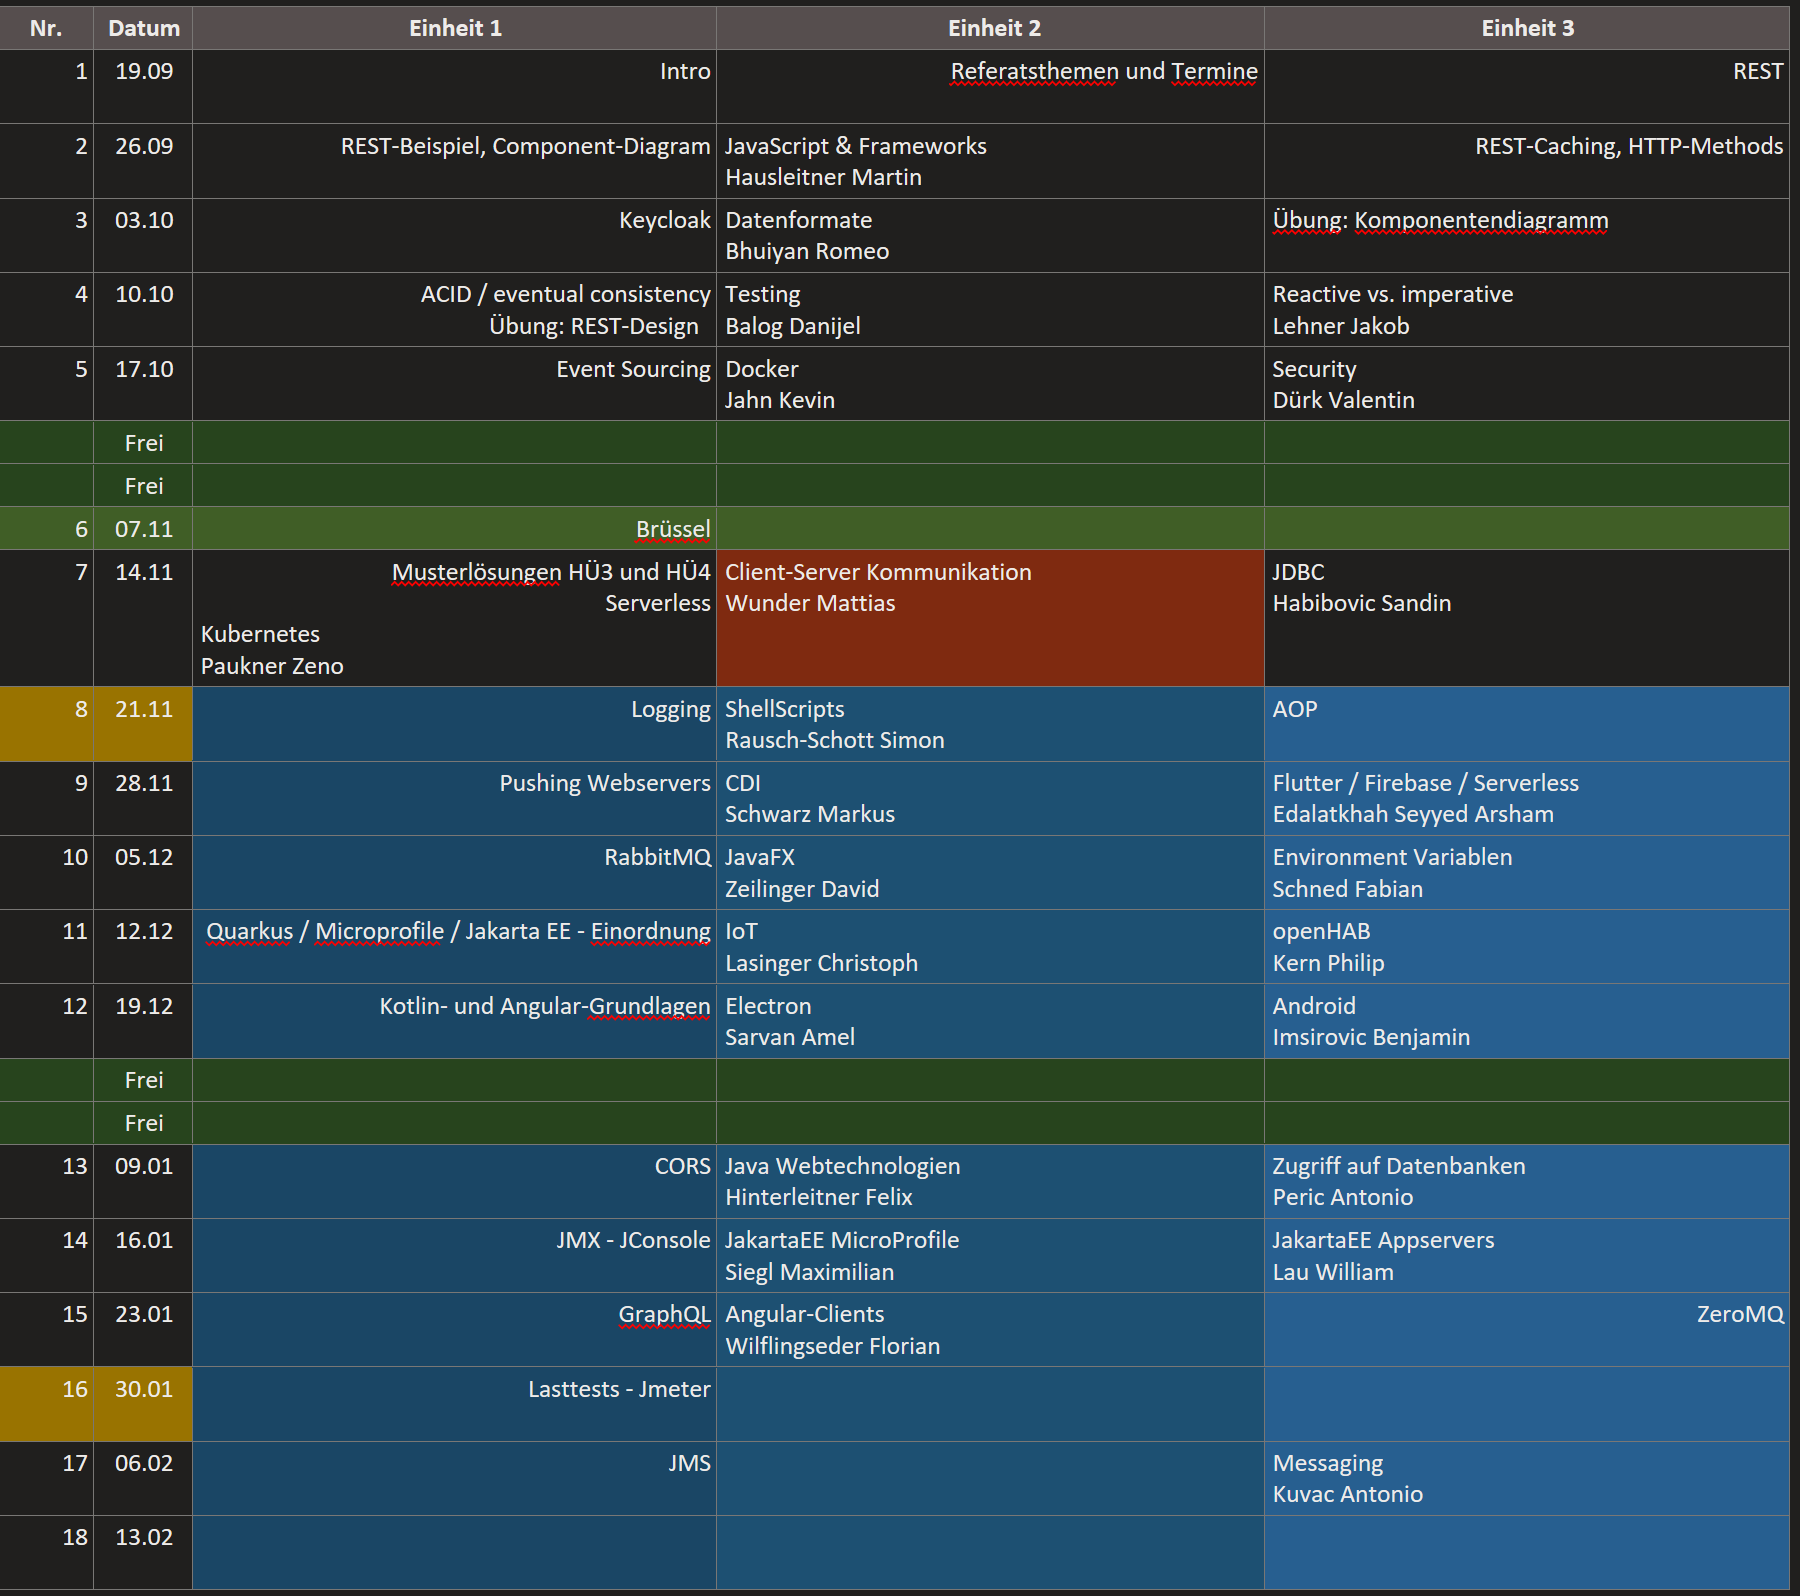
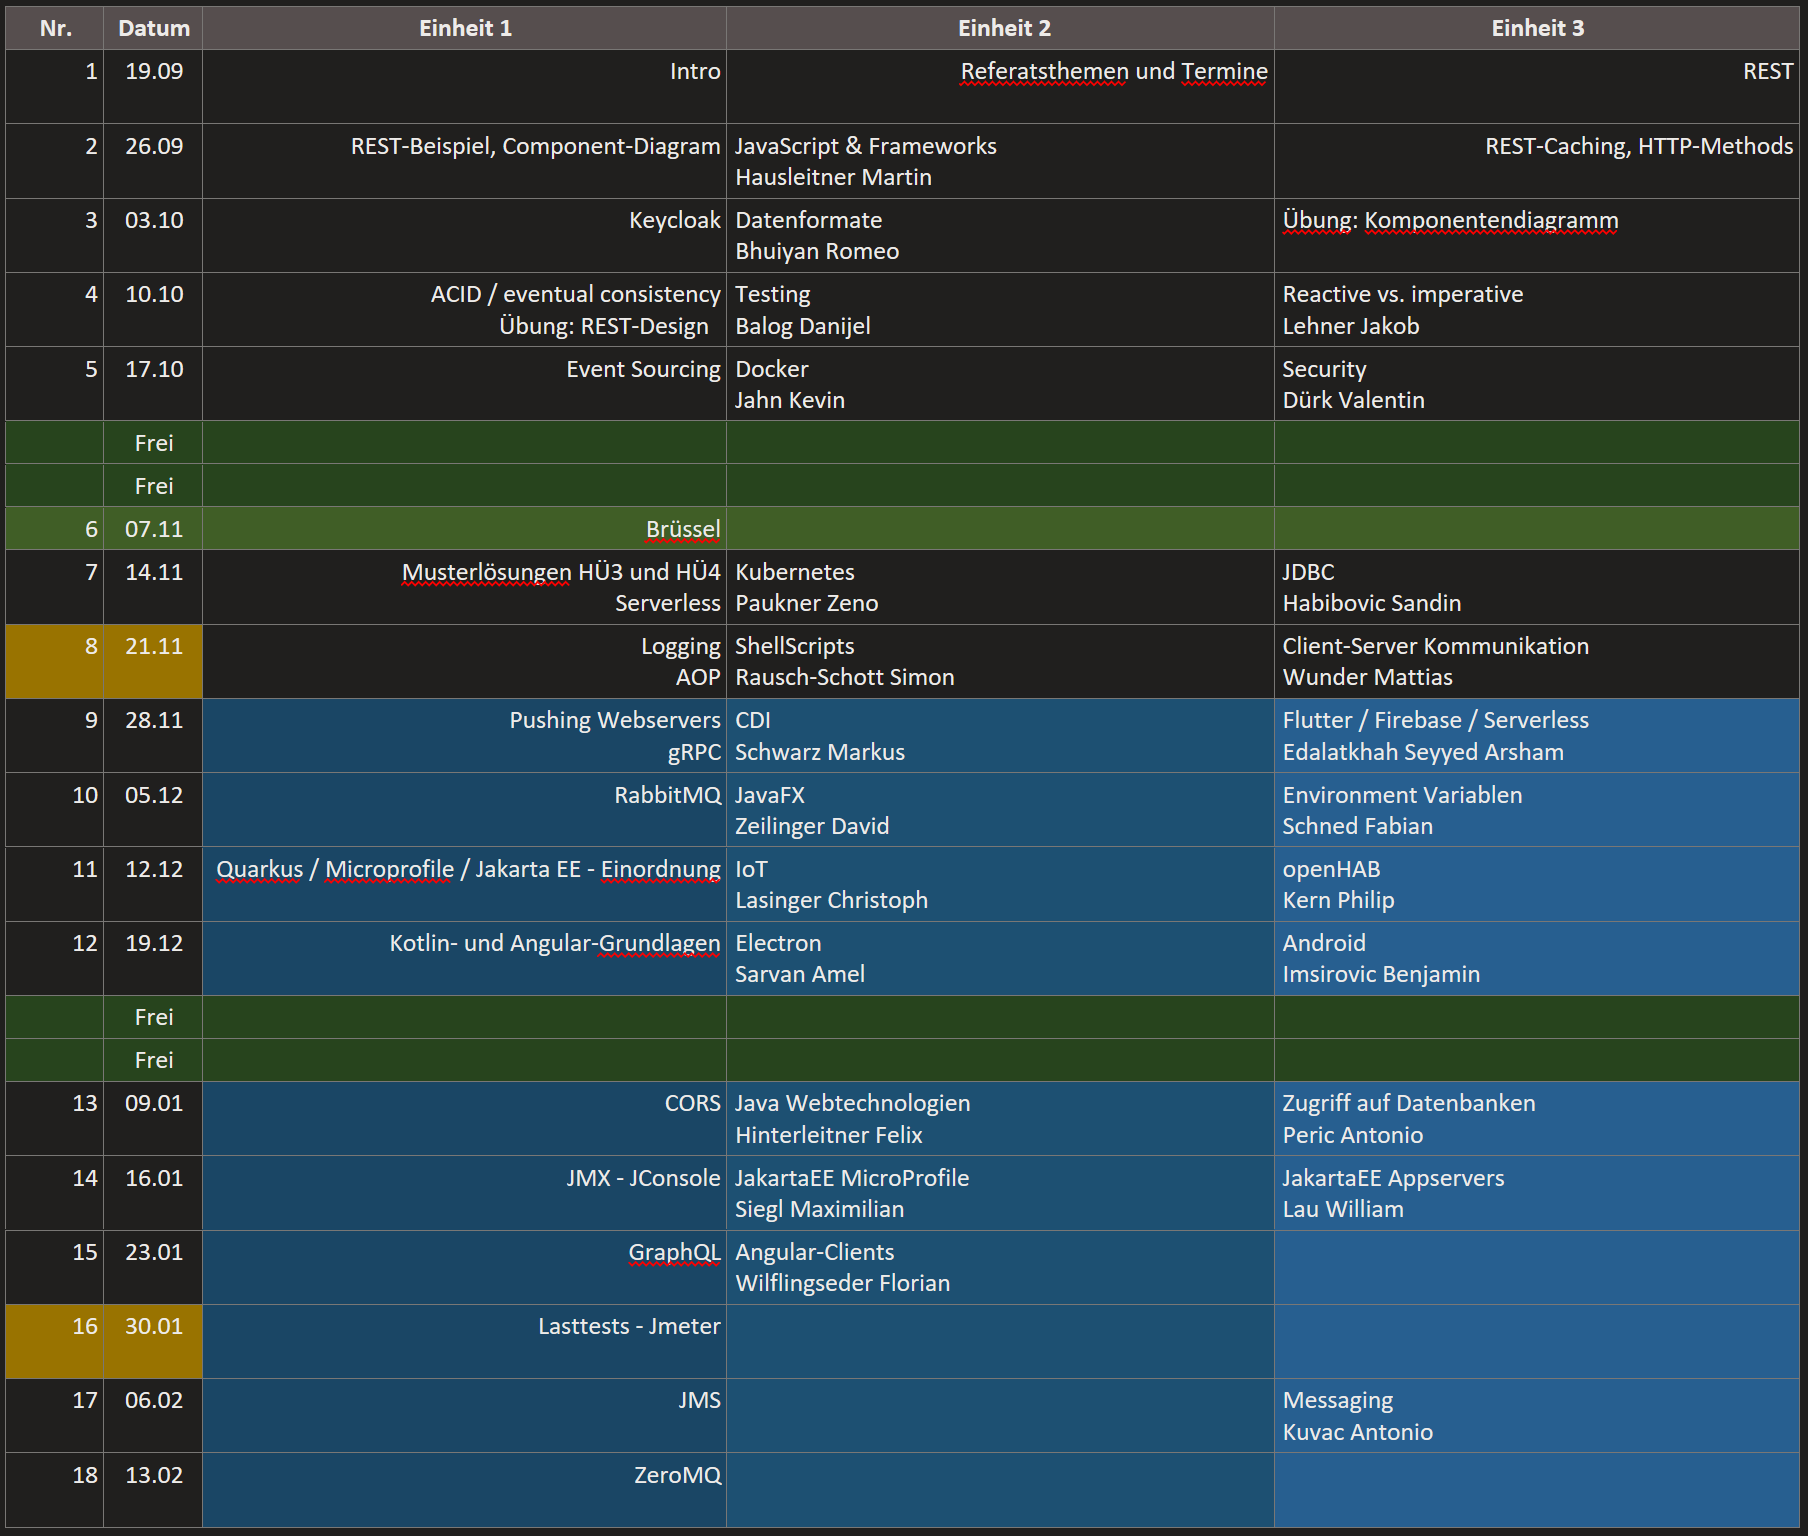
update

diff --git a/5CHIF-NVSV.md b/5CHIF-NVSV.md
@@ -18,26 +18,50 @@ https://classroom.github.com/a/QTfc9_Zk
 
 
 
-## 6. Einheit 2022-11-21
+## 7. Einheit 2022-11-28
 
-* [Aspect Oriented Programming](https://github.com/UnterrainerInformatik/htl/blob/master/presentations/aop.pdf)
-* [Logging](https://github.com/UnterrainerInformatik/htl/blob/master/presentations/logging.pdf)
+* [Pushing Webservers](https://github.com/UnterrainerInformatik/htl/blob/master/presentations/pushing-webservers.pdf)
+* gRPC Demo
+  https://github.com/UnterrainerInformatik/htl-grpc-client
 * Fragen
   * **ACID / BASE / Event Sourcing**
     * Erklären Sie das CAP-Theorem.
       * Wo würden Sie MariaDB platzieren?
       * Wo würden Sie ein GIT-Projekt platzieren?
+
     * Beschreiben Sie die ACID-Kriterien.
     * Was ist Eventual Consistency und warum ist sie so wichtig für verteilte Systeme?
     * Beschreiben Sie Event-Sourcing.
       * Was sind die Vorteile?
       * Was sind die Nachteile?
+
+  * **AOP**
+    Sie wurden von einer Firma beauftragt ein internes Caching innerhalb ihres Java-Stacks zu implementieren. Bestimmte Methoden, die lange laufen, sollen gechached werden und im Falle eines Cache-Hits soll das alte Ergebnis ausgeliefert werden.
+    Der Kunde verwendet Quarkus mit Panache als Backend.
+    * Nach welchen prinzipiellen Architekturschema würden Sie hier vorgehen?
+    * Welche beiden Möglichkeiten gibt es dieses Architekturschema zu verwenden?
+    * Nennen Sie Beispiele für Cross-Cutting-Concerns.
+    * Auf welche Art kann AOP in Quarkus angewandt werden und wie heißen die beiden Programmierkonstrukte die dabei benutzt werden können?
+      Zu welcher Library gehören diese beiden Teile?
+      Was ist der Unterschied zwischen ihnen?
   * **Serverless**
     Sie möchten in einem Betrieb beginnen, der eine Serverless-Architektur verwendet um ihr Produkt zu betreiben.
     * Was sind die wesentlichen Bestandteile einer Serverless-Architektur?
     * Was sind die wesentlichen Vorteile einer Serverless-Architektur?
     * Was ist ein Cold-Start-Delay und wie kann man es zum Beispiel verhindern?
     * Was ist ein Vendor-Lock-In und wie macht sich soetwas bemerkbar?
+
+
+### Hausübung
+
+Nichts
+
+
+
+## 6. Einheit 2022-11-21
+
+* [Aspect Oriented Programming](https://github.com/UnterrainerInformatik/htl/blob/master/presentations/aop.pdf)
+* [Logging](https://github.com/UnterrainerInformatik/htl/blob/master/presentations/logging.pdf)
 
 ### Hausübung
 

diff --git a/5BHIF-NVSV.md b/5BHIF-NVSV.md
@@ -18,9 +18,11 @@ https://classroom.github.com/a/0pIFwT2Q
 
 
 
-## 6. Einheit 2022-11-21
+## 7. Einheit 2022-11-28
 
-* [Logging](https://github.com/UnterrainerInformatik/htl/blob/master/presentations/logging.pdf)
+* [Pushing Webservers](https://github.com/UnterrainerInformatik/htl/blob/master/presentations/pushing-webservers.pdf)
+* gRPC Demo
+  https://github.com/UnterrainerInformatik/htl-grpc-client
 * Fragen
   * **ACID / BASE / Event Sourcing**
     * Erklären Sie das CAP-Theorem.
@@ -48,6 +50,17 @@ https://classroom.github.com/a/0pIFwT2Q
     * Was sind die wesentlichen Vorteile einer Serverless-Architektur?
     * Was ist ein Cold-Start-Delay und wie kann man es zum Beispiel verhindern?
     * Was ist ein Vendor-Lock-In und wie macht sich soetwas bemerkbar?
+
+
+### Hausübung
+
+Nichts
+
+
+
+## 6. Einheit 2022-11-21
+
+* [Logging](https://github.com/UnterrainerInformatik/htl/blob/master/presentations/logging.pdf)
 
 
 ### Hausübung
